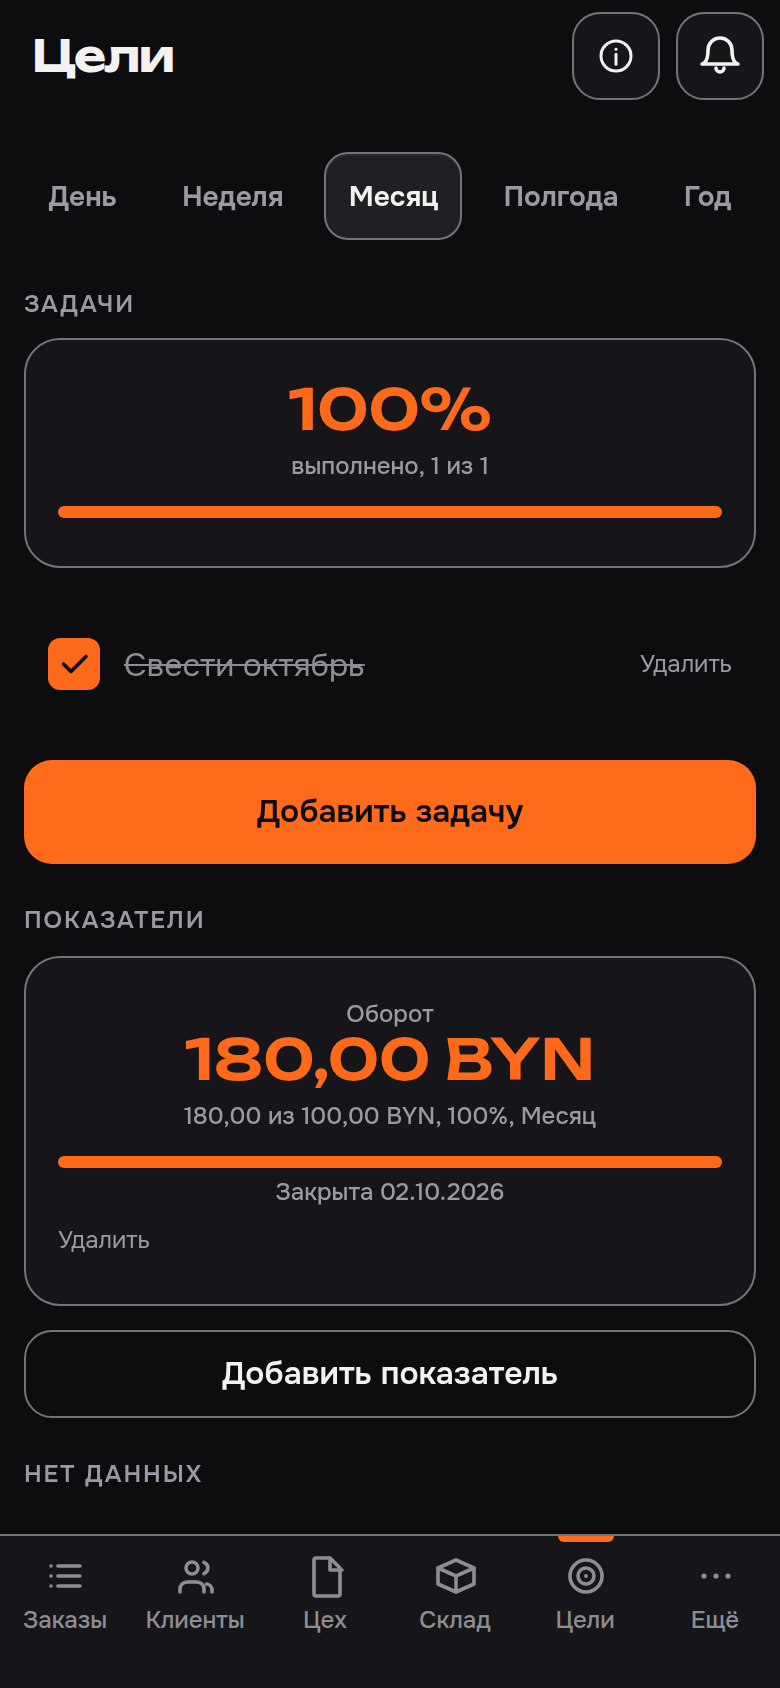
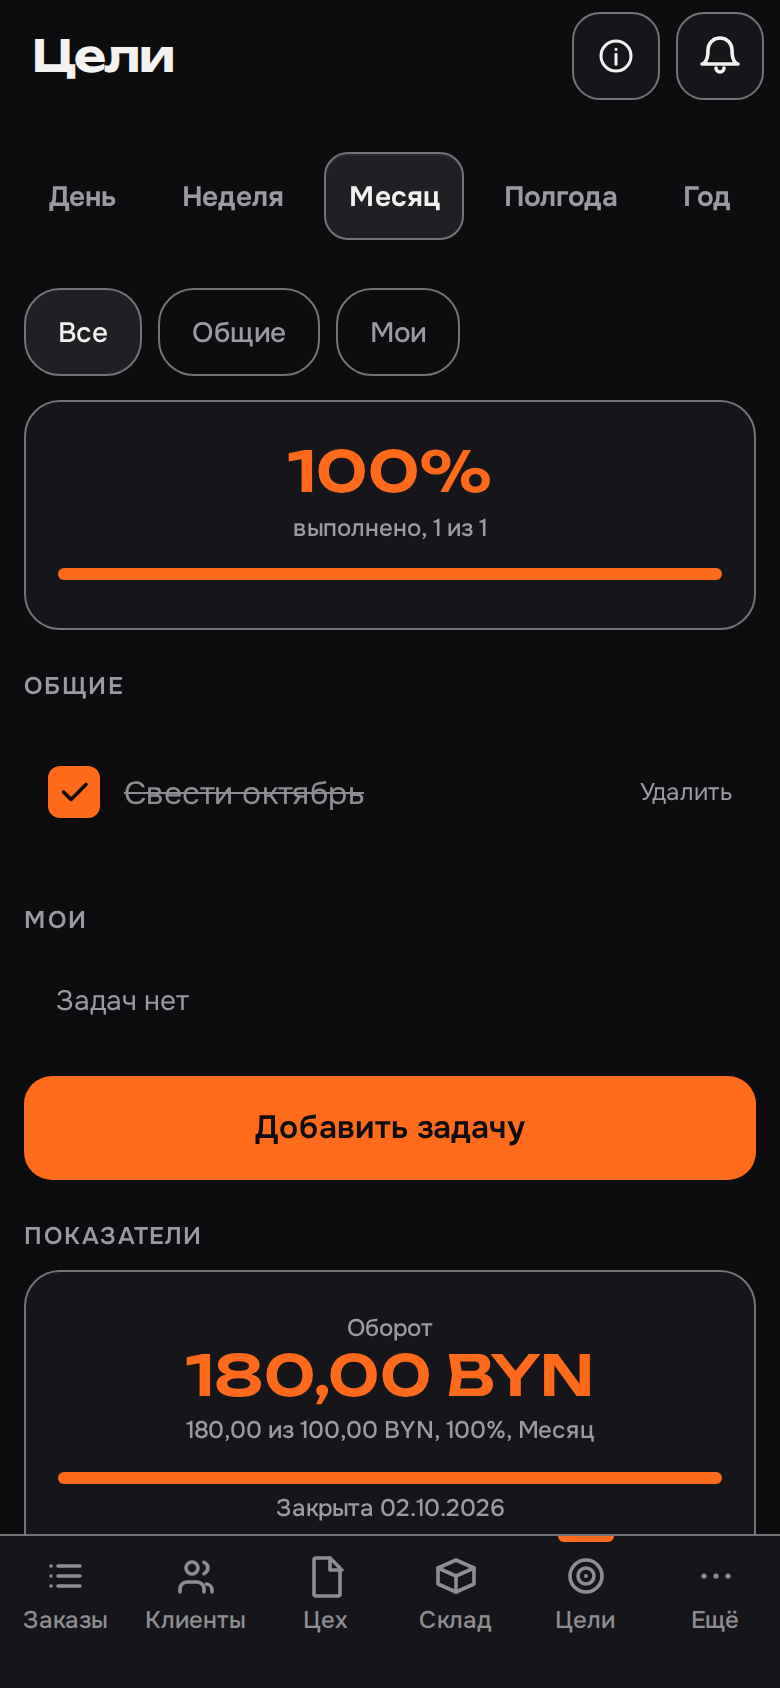
Цели: процент сотрудника только по своим и общим
Чужие личные задачи не входят в процент, даже если пришли в ответе. Скриншоты вкладки для владельца и курьера.

diff --git a/boinya-c/next/goals.js b/boinya-c/next/goals.js
@@ -95,10 +95,19 @@
     });
   }
 
+  function visibleToMe(list) {
+    return list.filter(function (t) {
+      if (!isPersonal(t)) return true;
+      if (isOwner()) return true;
+      return String(t.ownerTgId) === myId();
+    });
+  }
+
   function shownTasks(list) {
-    if (!isOwner() || filter === "all") return list;
-    if (filter === "shared") return byScope(list, "shared");
-    return byScope(list, "person", filter);
+    var base = visibleToMe(list);
+    if (!isOwner() || filter === "all") return base;
+    if (filter === "shared") return byScope(base, "shared");
+    return byScope(base, "person", filter);
   }
 
   function personLabel(tid) {
